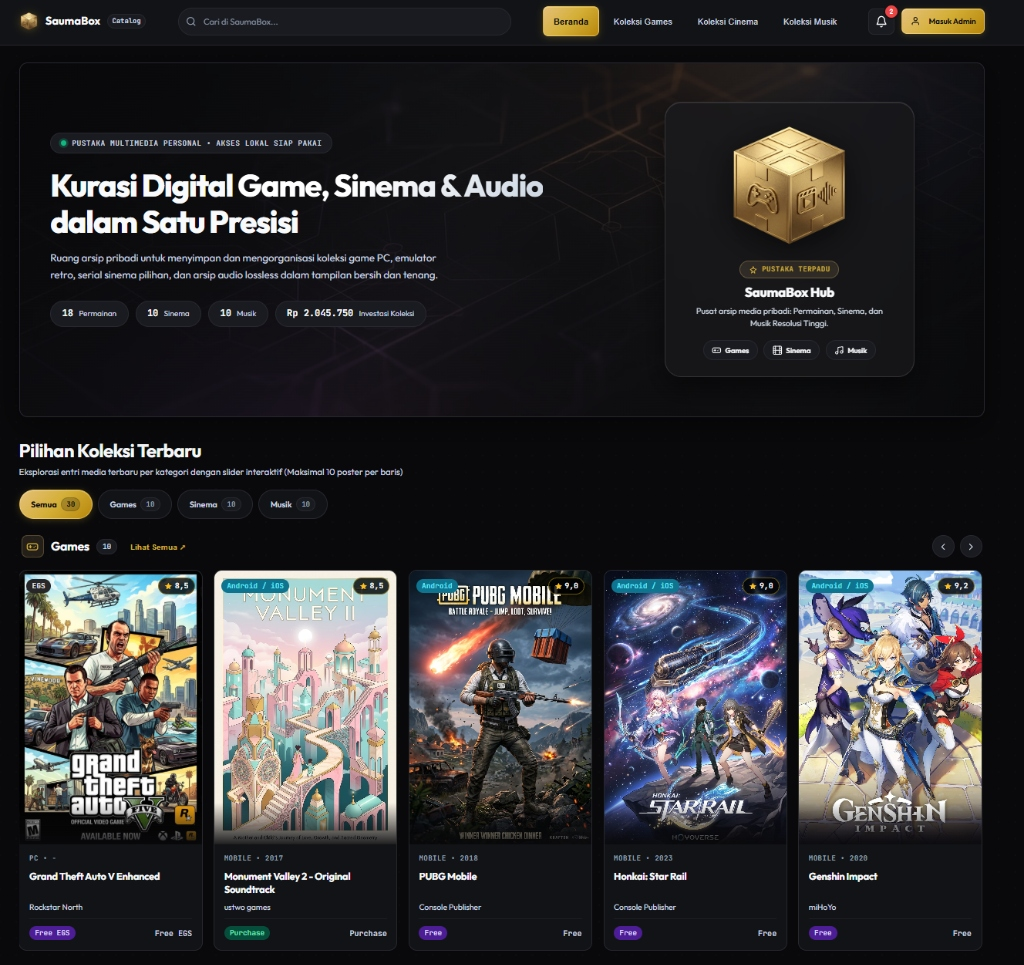
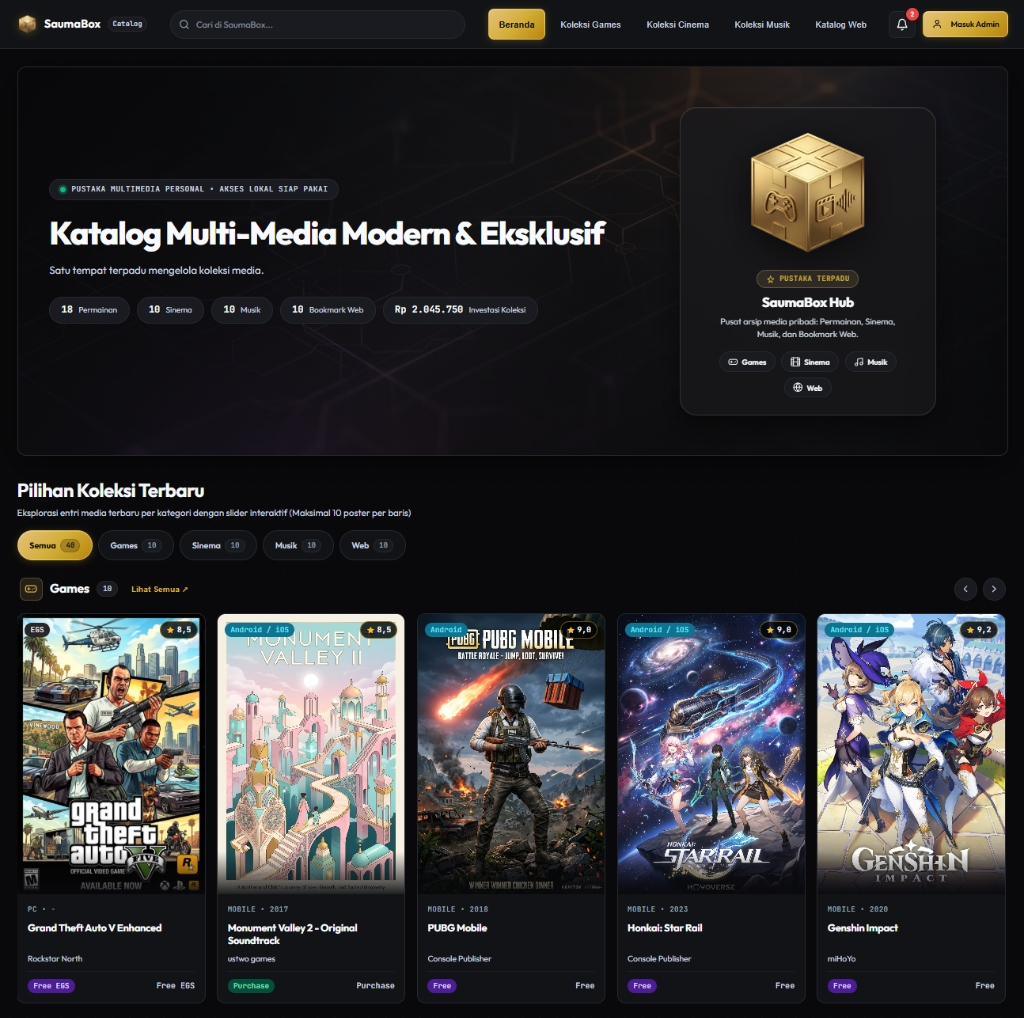
chore(release): update ke v0.5.1 dan perbarui gambar pratinjau antarmuka

diff --git a/public/js/modules/updater.js b/public/js/modules/updater.js
@@ -4,7 +4,7 @@
 
 Object.assign(app, {
   renderSettingsSystem(s) {
-    const curVer = 'v0.5.0';
+    const curVer = 'v0.5.1';
     return `
       <div style="display:flex; flex-direction:column; gap:20px;">
         <!-- Card Utama: Status & Pembaruan Sistem -->
@@ -81,12 +81,24 @@ Object.assign(app, {
         <div class="module-card">
           <h3 style="font-size:1.05rem; margin-bottom:6px; display:flex; align-items:center; gap:8px;">
             <span style="color:var(--accent-color);">${getIcon('layers', 'ui-icon', 16)}</span>
-            Catatan Pembaruan Terkini (v0.5.0)
+            Catatan Pembaruan Terkini (v0.5.1)
           </h3>
           <p style="font-size:0.83rem; color:var(--text-secondary); margin-bottom:14px;">
             Peningkatan fitur, efisiensi penyimpanan, dan perbaikan antarmuka pada rilis ini:
           </p>
           <div class="changelog-list">
+            <div class="changelog-item">
+              <span class="changelog-tag tag-new">Fitur Baru</span>
+              <span><strong>Katalog Web &amp; Bookmark Aplikasi:</strong> Modul peluncur bookmark tautan web dan aplikasi homelab (CasaOS, ZimaOS, Portainer) berbentuk kartu kisi launchpad dengan logo/favicon otomatis.</span>
+            </div>
+            <div class="changelog-item">
+              <span class="changelog-tag tag-system">Keamanan</span>
+              <span><strong>Kontrol Visibilitas Akses Publik (Read-Only):</strong> Master switch dan per-katalog toggle untuk mengatur akses pengunjung tanpa login, route guard katalog privat, serta opsi sembunyikan estimasi harga game.</span>
+            </div>
+            <div class="changelog-item">
+              <span class="changelog-tag tag-ui">Antarmuka</span>
+              <span><strong>Hero Banner Dinamis &amp; Branding:</strong> Kustomisasi nama aplikasi, logo, judul banner, dan deskripsi beranda langsung tersinkron secara reaktif ke antarmuka.</span>
+            </div>
             <div class="changelog-item">
               <span class="changelog-tag tag-new">Fitur Baru</span>
               <span><strong>Kompresi Gambar Otomatis (100–200 KB):</strong> Engine optimasi gambar terintegrasi berbasis Sharp untuk seluruh upload poster, cover, dan avatar profil dengan batas ketat $\le 200$ KB.</span>
